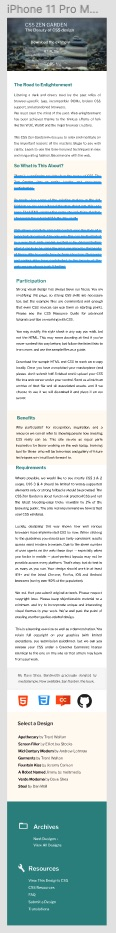
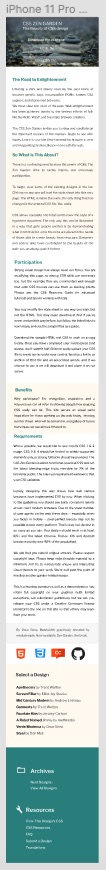
navigation

diff --git a/style-guide-template/src/css/style-guide.css b/style-guide-template/src/css/style-guide.css
@@ -52,23 +52,72 @@ table {
   display: inline-block;
   background-position: center center;
   background-repeat: no-repeat;
-  margin: 1em; }
+  margin: 1em;
+  width: 70px !important;
+  height: 74px !important; }
 .cd-icons .cd-icon-1 {
   background-image: url("../assets/icons/folder_openold.png"); }
 .cd-icons .cd-icon-2 {
-  background-image: url("../assets/icons/icon-2.svg"); }
+  background-image: url("../assets/icons/html.png"); }
 .cd-icons .cd-icon-3 {
-  background-image: url("../assets/icons/icon-3.svg"); }
+  background-image: url("../assets/icons/github.png"); }
 .cd-icons .cd-icon-4 {
-  background-image: url("../assets/icons/icon-4.svg"); }
+  background-image: url("../assets/icons/cc.png"); }
 .cd-icons .cd-icon-5 {
-  background-image: url("../assets/icons/icon-5.svg"); }
+  background-image: url("../assets/icons/css.png"); }
 .cd-icons .cd-icon-6 {
-  background-image: url("../assets/icons/icon-6.svg"); }
-.cd-icons .cd-icon-7 {
-  background-image: url("../assets/icons/icon-7.svg"); }
-.cd-icons .cd-icon-8 {
-  background-image: url("../assets/icons/icon-8.svg"); }
+  background-image: url("../assets/icons/search.png"); }
+
+li:nth-of-type(1) .cd-color-swatch {
+  background: #FFFAF2; }
+  li:nth-of-type(1) .cd-color-swatch::before {
+    background: white; }
+  li:nth-of-type(1) .cd-color-swatch::after {
+    background: #fff0d9; }
+
+li:nth-of-type(2) .cd-color-swatch {
+  background: #2F8886; }
+  li:nth-of-type(2) .cd-color-swatch::before {
+    background: #369b99; }
+  li:nth-of-type(2) .cd-color-swatch::after {
+    background: #287573; }
+
+li:nth-of-type(3) .cd-color-swatch {
+  background: #333333; }
+  li:nth-of-type(3) .cd-color-swatch::before {
+    background: #404040; }
+  li:nth-of-type(3) .cd-color-swatch::after {
+    background: #262626; }
+
+li:nth-of-type(4) .cd-color-swatch {
+  background: #FFFFFF; }
+  li:nth-of-type(4) .cd-color-swatch::before {
+    background: white; }
+  li:nth-of-type(4) .cd-color-swatch::after {
+    background: #f2f2f2; }
+
+#typography {
+  font-family: "Libre Franklin", sans-serif; }
+
+.cd-navigation .cd-box {
+  font-family: "Libre Franklin", sans-serif;
+  background-color: #2f8886;
+  max-width: 50%;
+  color: white;
+  padding-top: 3rem;
+  padding-bottom: 3rem;
+  padding-left: 10rem; }
+  .cd-navigation .cd-box h3 {
+    font-size: 2.7rem;
+    font-weight: bold;
+    padding: 2rem 0; }
+  .cd-navigation .cd-box nav ul li {
+    padding: 1rem 0; }
+  .cd-navigation .cd-box a {
+    color: white;
+    font-size: 1.7rem; }
+  .cd-navigation .cd-box > div {
+    margin-top: 4rem; }
 
 /* --------------------------------
 
@@ -169,7 +218,7 @@ xTypography
 -------------------------------- */
 h1,
 h2 {
-  font-family: "Open Sans", sans-serif;
+  font-family: "Libre Franklin", sans-serif;
   color: #19191a; }
 
 h1 {
@@ -762,36 +811,6 @@ section {
 .cd-colors b {
   display: block;
   padding: 0.6em 0; }
-.cd-colors li:nth-of-type(1) .cd-color-swatch {
-  background: #5f8ee4; }
-  .cd-colors li:nth-of-type(1) .cd-color-swatch::before {
-    background: #759de8; }
-  .cd-colors li:nth-of-type(1) .cd-color-swatch::after {
-    background: #497fe0; }
-.cd-colors li:nth-of-type(2) .cd-color-swatch {
-  background: #19191a; }
-  .cd-colors li:nth-of-type(2) .cd-color-swatch::before {
-    background: #262627; }
-  .cd-colors li:nth-of-type(2) .cd-color-swatch::after {
-    background: #0d0d0d; }
-.cd-colors li:nth-of-type(3) .cd-color-swatch {
-  background: #e4655f; }
-  .cd-colors li:nth-of-type(3) .cd-color-swatch::before {
-    background: #e87a75; }
-  .cd-colors li:nth-of-type(3) .cd-color-swatch::after {
-    background: #e05049; }
-.cd-colors li:nth-of-type(4) .cd-color-swatch {
-  background: #e6e6e6; }
-  .cd-colors li:nth-of-type(4) .cd-color-swatch::before {
-    background: #f3f3f3; }
-  .cd-colors li:nth-of-type(4) .cd-color-swatch::after {
-    background: #d9d9d9; }
-.cd-colors li:nth-of-type(5) .cd-color-swatch {
-  background: #ffffff; }
-  .cd-colors li:nth-of-type(5) .cd-color-swatch::before {
-    background: white; }
-  .cd-colors li:nth-of-type(5) .cd-color-swatch::after {
-    background: #f2f2f2; }
 @media only screen and (min-width: 768px) {
   .cd-colors li {
     width: 19%;
@@ -816,8 +835,8 @@ section {
 
 /* xTypography section - basic style */
 .cd-typography h1::before {
-  content: "Aa - ";
-  color: #5f8ee4; }
+  content: "Aa -  ";
+  color: #2F8886; }
 
 .cd-buttons .cd-box:first-of-type {
   border-bottom-left-radius: 0;

diff --git a/style-guide-template/src/index.html b/style-guide-template/src/index.html
@@ -9,7 +9,7 @@
       rel="stylesheet"
       type="text/css"
     />
-    <link href="https://fonts.googleapis.com/css2?family=Libre+Franklin:wght@300;400;500;600;700&display=swap" rel="stylesheet"> 
+    <link href="https://fonts.googleapis.com/css2?family=Libre+Franklin:wght@300;400;500;600;700&display=swap" rel="stylesheet">
     <link rel="stylesheet" href="scss/style-guide.scss" />
     <!-- Resource style -->
     <script src="js/modernizr.js"></script>
@@ -172,38 +172,25 @@
         <h2>Navigation</h2>
         <div class="cd-box">
           <div>
-            <h3>Primary</h3>
+            <h3>Archives</h3>
             <nav class="cd-primary-nav">
               <ul>
-                <li><a href="#">One</a></li>
-                <li><a href="#">Two</a></li>
-                <li><a href="#">Three</a></li>
-                <li><a href="#">Four</a></li>
-                <li><a href="#">Five</a></li>
+                <li><a href="#">Next Designs></a></li>
+                <li><a href="#">View All designs</a></li>
               </ul>
             </nav>
           </div>
           <div>
-            <h3>Secondary</h3>
+            <h3>Resources</h3>
             <nav class="cd-secondary-nav">
               <ul>
-                <li><a href="#">One</a></li>
-                <li><a href="#">Two</a></li>
-                <li><a href="#">Three</a></li>
-                <li><a href="#">Four</a></li>
-                <li><a href="#">Five</a></li>
+                <li><a href="#">View This Design's CSS</a></li>
+                <li><a href="#">CSS Resources</a></li>
+                <li><a href="#">FAQ</a></li>
+                <li><a href="#">Submit a Design</a></li>
+                <li><a href="#">Translation</a></li>
               </ul>
             </nav>
-          </div>
-          <div>
-            <h3>Other Links</h3>
-            <ul>
-              <li><a href="#">One</a></li>
-              <li><a href="#">Two</a></li>
-              <li><a href="#">Three</a></li>
-              <li><a href="#">Four</a></li>
-              <li><a href="#">Five</a></li>
-            </ul>
           </div>
         </div>
       </section>

diff --git a/style-guide-template/src/scss/style-guide.scss b/style-guide-template/src/scss/style-guide.scss
@@ -4,6 +4,7 @@
 @import "partials/icons";
 @import "partials/colors";
 @import "partials/typography";
+@import "partials/navigation";
 // color palette - these colors will be the color swatches of the Colors section
 
 $color-1: #5f8ee4; // Cornflower Blue - Action color
@@ -20,7 +21,7 @@ $alert: $color-3; // red
 // fonts
 $primary-font: "Merriweather", serif;
 $secondary-font: "Open Sans", sans-serif;
-$third-font: 'Libre Franklin', sans-serif;
+$third-font: "Libre Franklin", sans-serif;
 
 /* --------------------------------
 

diff --git a/style-guide-template/src/scss/partials/_navigation.scss b/style-guide-template/src/scss/partials/_navigation.scss
@@ -1,0 +1,28 @@
+.cd-navigation {
+}
+
+.cd-navigation .cd-box {
+  font-family: $third-font;
+  background-color: #2f8886;
+  max-width: 50%;
+  color: white;
+  padding-top: 3rem;
+  padding-bottom: 3rem;
+  padding-left: 10rem;
+  h3 {
+    font-size: 2.7rem;
+    font-weight: bold;
+    padding: 2rem 0;
+  }
+
+  nav ul li {
+    padding: 1rem 0;
+  }
+  a {
+    color: white;
+    font-size: 1.7rem;
+  }
+  > div {
+    margin-top: 4rem;
+  }
+}
